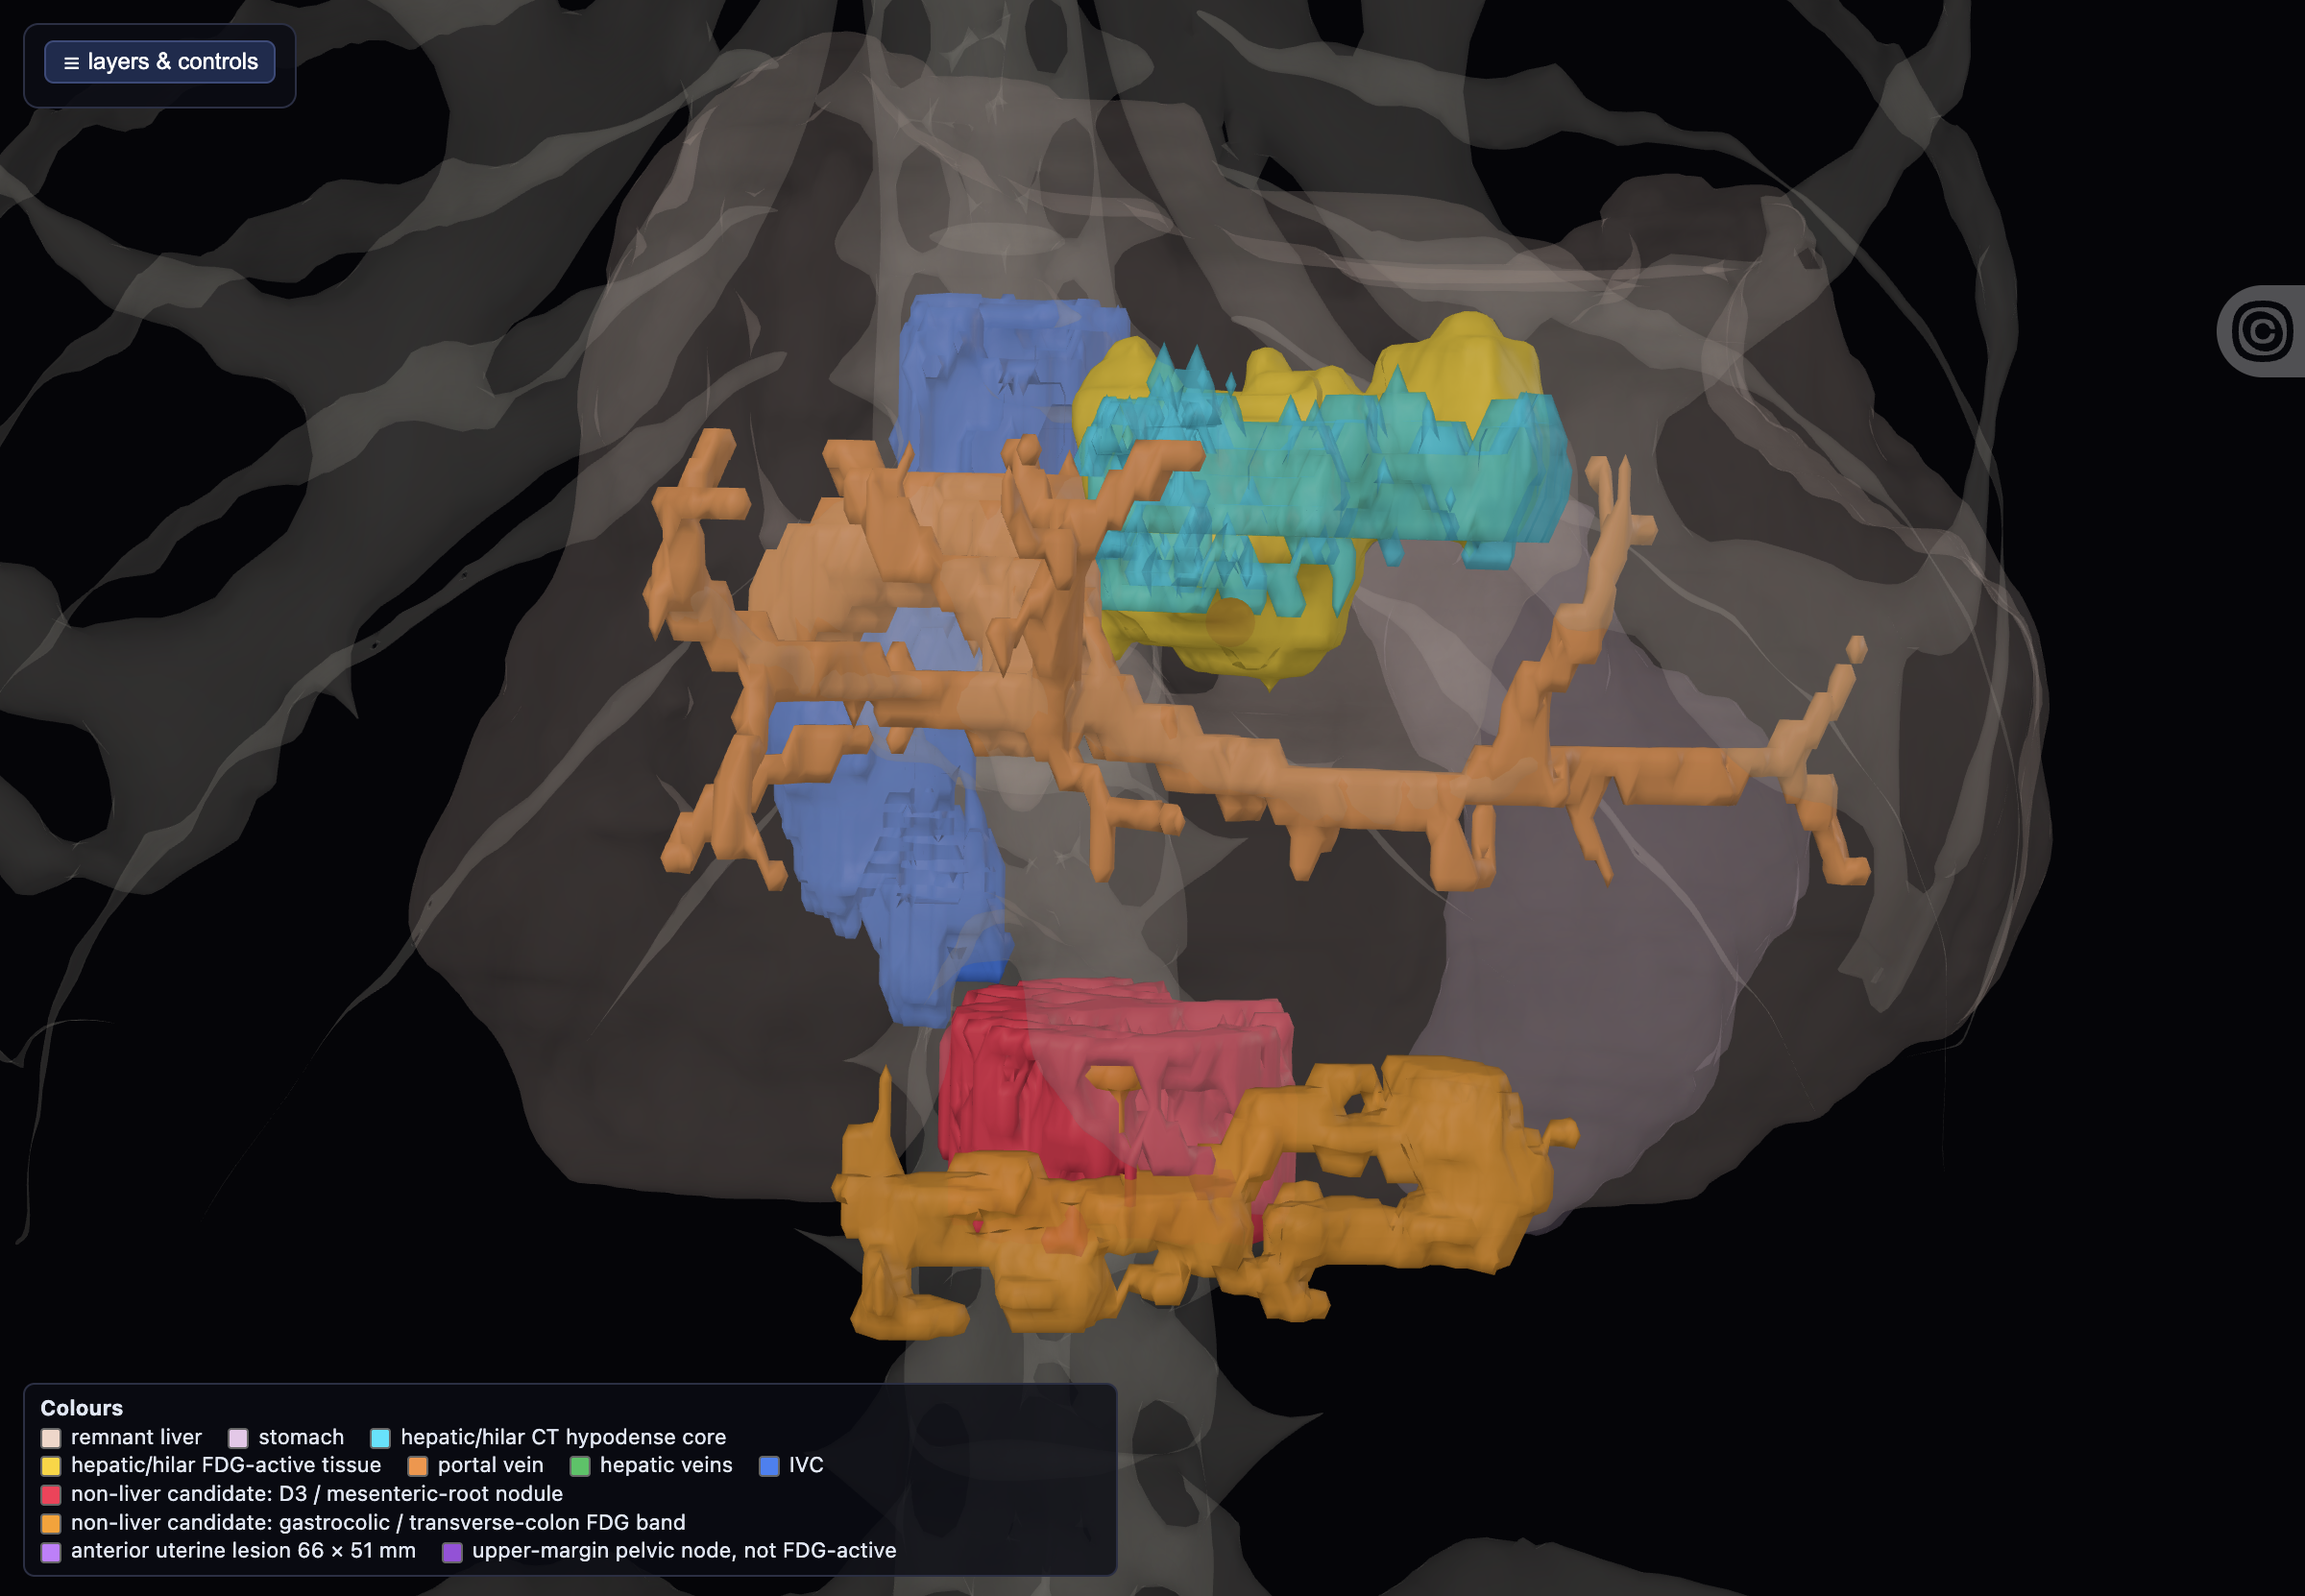
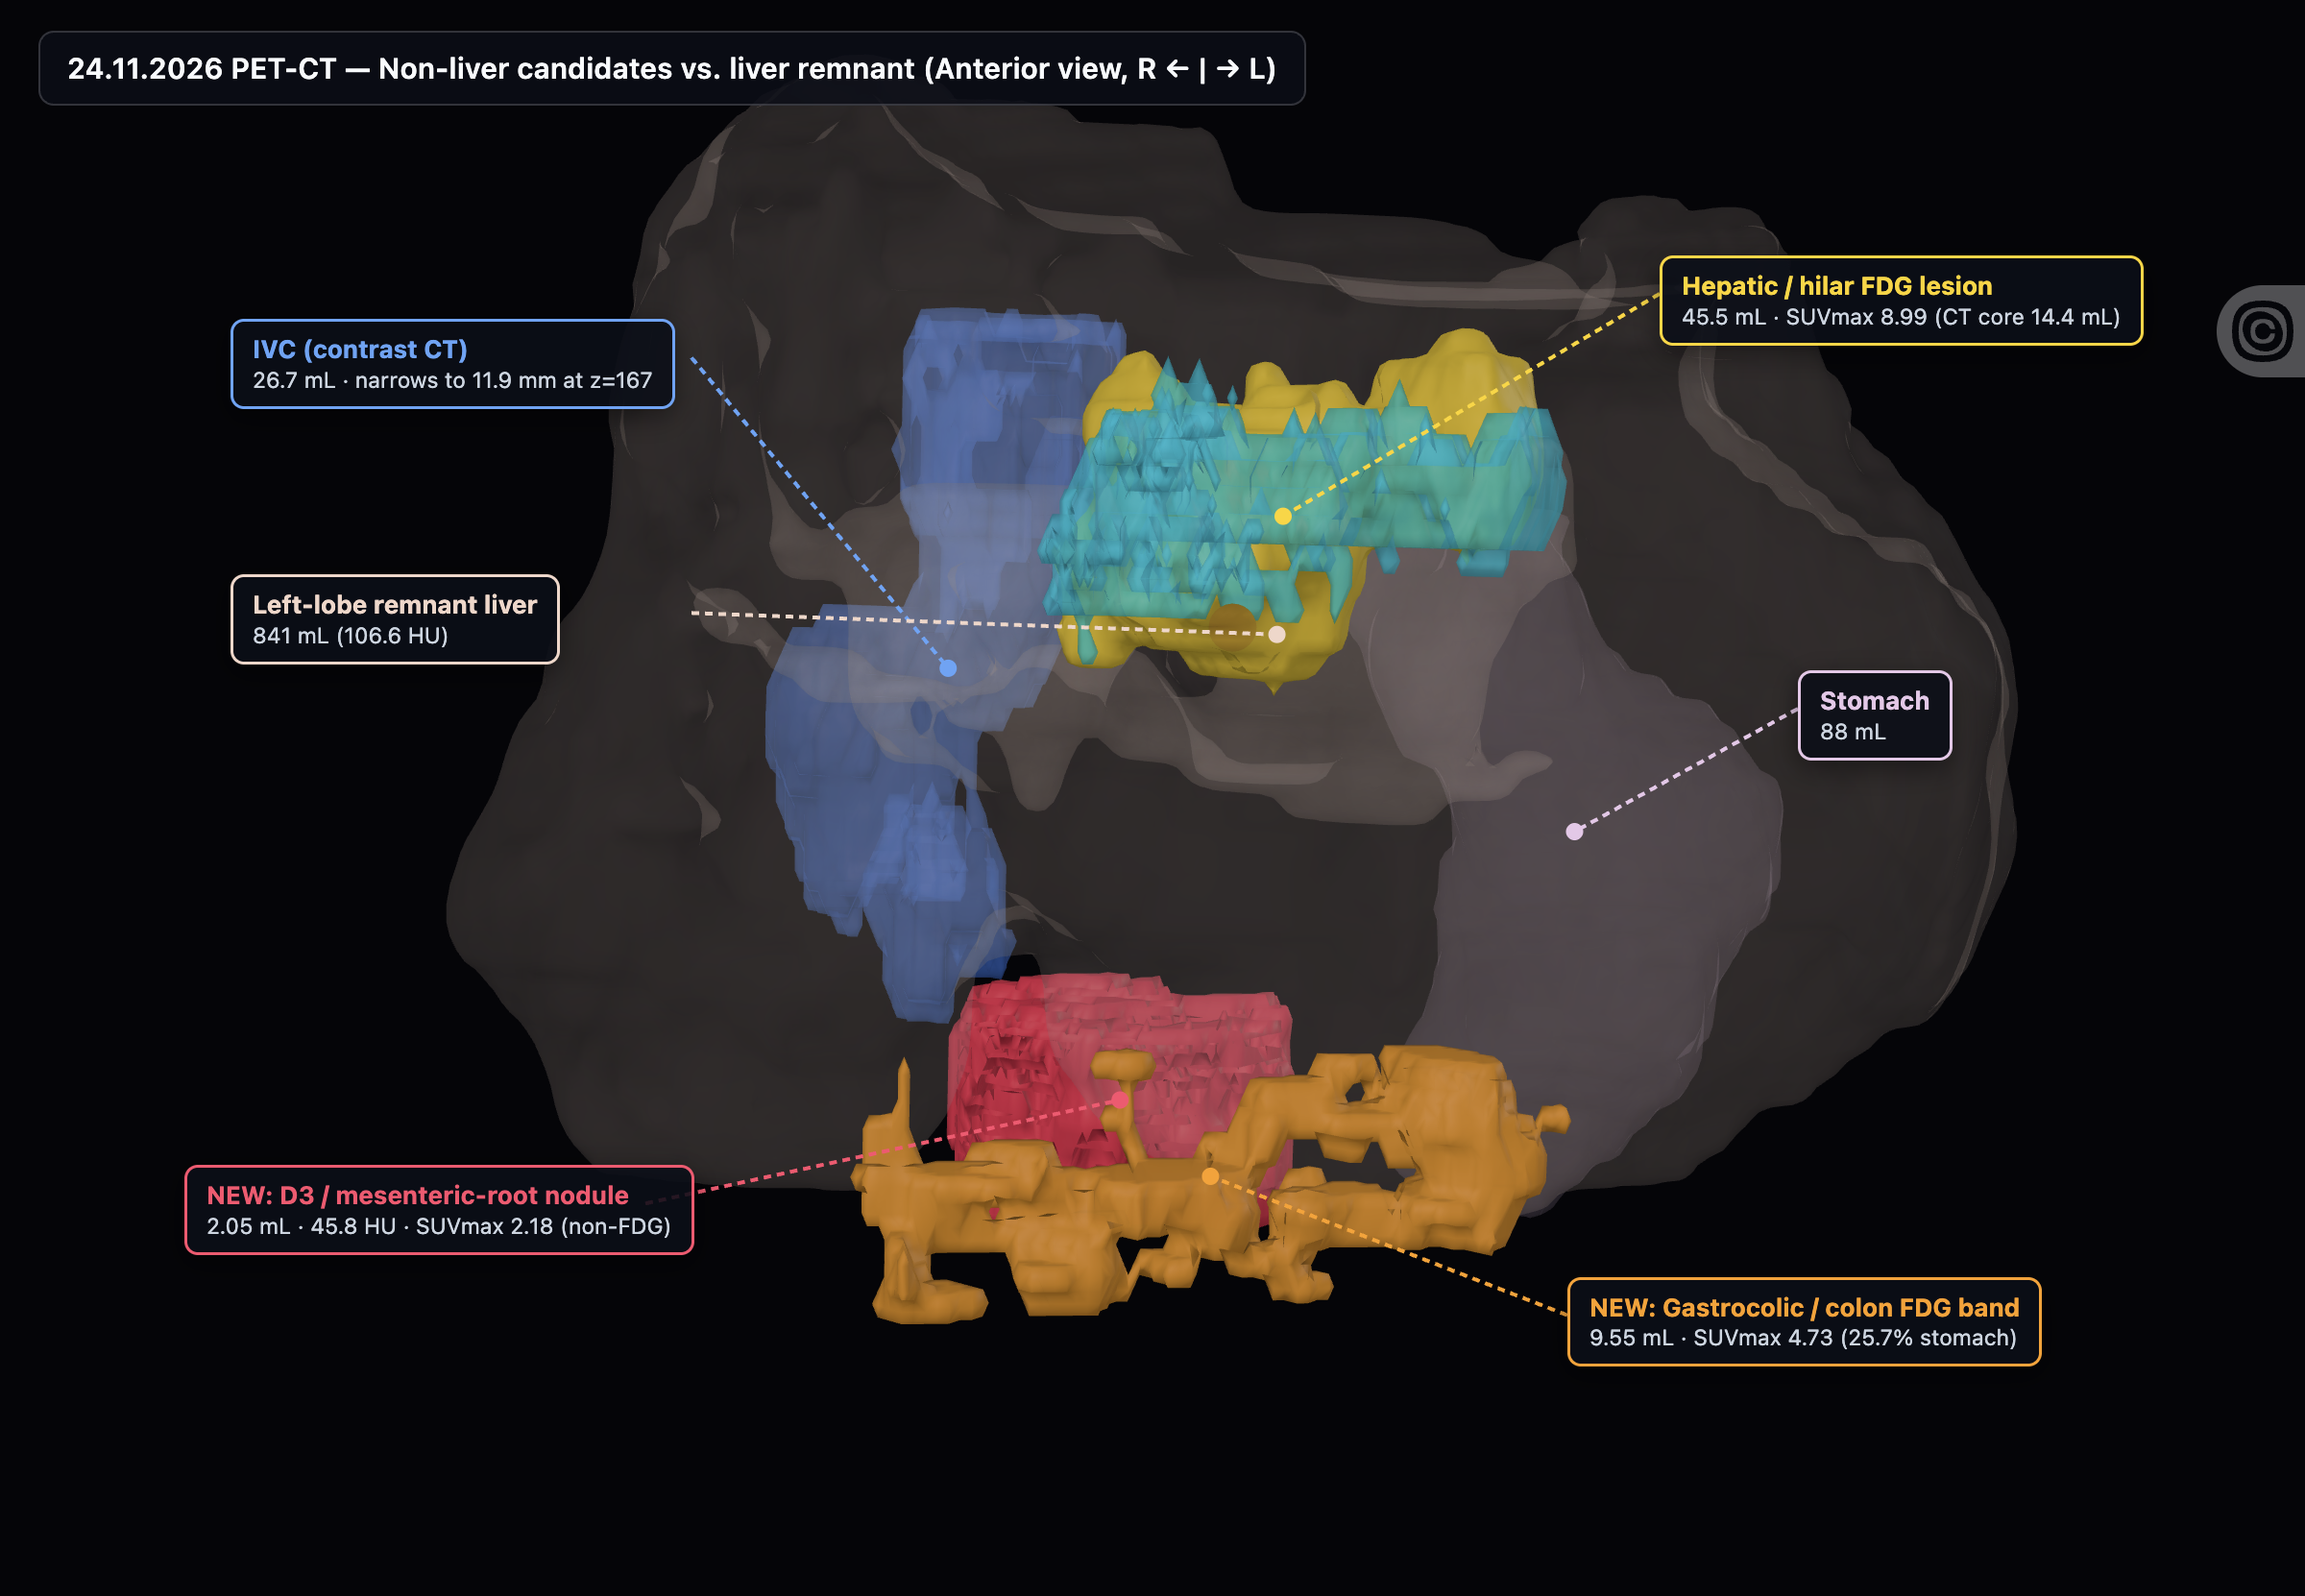
Replace non-liver 3D images with clean, labeled, uncluttered views in #imaging-nov

diff --git a/index.html b/index.html
@@ -803,7 +803,7 @@ draw();
 </table>
 <figure><img src="img/petct_2026-11/nov2026_contrast_s30.png?v=20261124" alt="24.11.2026 S30 portal-venous contrast CT and FDG PET"><figcaption>Figure N0. Converged <code>S30</code> portal-venous IV contrast CT + <code>S40</code> FDG PET (z=144..175): cyan = liver envelope, magenta = CT hypodense core (14.44 cm³, 65.6 HU), yellow = FDG PERCIST (45.54 cm³), orange = patent portal vein (167.6 HU), blue = continuous IVC (11.9 mm at z=167), green = Sato-Hessian hepatic veins (136.9 HU).</figcaption></figure>
 <figure><img src="img/petct_2026-11/nov2026_3d_views.png?v=20261124" alt="24.11.2026 3D liver remnant and hilar FDG reconstruction"><figcaption>Figure N1. Converged 3D reconstruction (24.11.2026, Anterior [R ← | → L] and Left Anterior Oblique): remnant liver (841.2 cm³), contiguous hepatic/hilar FDG lesion (40.7 cm³, SUVmax 8.99), portal vein, IVC (z ≤ 172, below cavoatrial junction), and stomach.</figcaption></figure>
-<figure><img src="img/petct_2026-11/nov2026_nonliver_3d_anterior.png?v=20261124" alt="24.11.2026 3D anterior view of new non-liver candidates"><img src="img/petct_2026-11/nov2026_nonliver_3d_oblique.png?v=20261124" alt="24.11.2026 3D left anterior oblique view of new non-liver candidates"><figcaption>Figure N1b. Static 3D views of the <b>new</b> non-liver candidates (top: Anterior; bottom: Left Anterior Oblique): <b>red</b> = D3 / mesenteric-root nodule (2.05 cm³, 45.8 HU, SUVmax 2.18, z=145.6, 3.1 mm anterior to aorta — likely collapsed D3 vs non-FDG node); <b>amber</b> = gastrocolic / transverse-colon FDG band (9.55 cm³, SUVmax 4.73, z=143.9, 25.7% stomach overlap). Shown with ghosted liver remnant &amp; stomach, IVC (blue), portal vein (tan), and hepatic/hilar lesion (cyan CT core / yellow FDG).</figcaption></figure>
+<figure><img src="img/petct_2026-11/nov2026_nonliver_3d_anterior.png?v=202611241918" alt="24.11.2026 3D anterior view of new non-liver candidates"><img src="img/petct_2026-11/nov2026_nonliver_3d_oblique.png?v=202611241918" alt="24.11.2026 3D left anterior oblique view of new non-liver candidates"><figcaption>Figure N1b. Clean 3D views of the <b>new</b> non-liver candidates (top: Anterior; bottom: Left Anterior Oblique): <b>red</b> = D3 / mesenteric-root nodule (2.05 cm³, 45.8 HU, SUVmax 2.18, z=145.6, 3.1 mm anterior to aorta — likely collapsed D3 vs non-FDG node); <b>amber</b> = gastrocolic / transverse-colon FDG band (9.55 cm³, SUVmax 4.73, z=143.9, 25.7% stomach overlap). Shown with ghosted liver remnant &amp; stomach, IVC (blue), and hepatic/hilar lesion (cyan CT core / yellow FDG).</figcaption></figure>
 <figure><img src="img/petct_2026-11/nov2026_liver_slices.png?v=20261124" alt="24.11.2026 axial CT and fused PET-CT liver slices"><figcaption>Figure N2. Axial CT and fused PET-CT across the remnant liver (z=142..182): cyan = refined remnant liver, yellow = PERCIST FDG focus (SUVmax 8.99), magenta = excluded heart, green = deformed Sep 2026 L1 reference.</figcaption></figure>
 <details><summary>24.11.2026 extra-hepatic/desmoid survey, pelvis axial/sagittal/coronal check, and PET MIP</summary>
 <figure><img src="img/petct_2026-11/nov2026_desmoid_survey.png?v=20261124" loading="lazy" alt="24.11.2026 extra-hepatic FDG and peritoneal CT survey"><figcaption>Figure N3. Torso-only extra-hepatic FDG &amp; intraperitoneal desmoid survey (arms &amp; retroperitoneal muscles excluded): shows physiologic/indeterminate GI bands (z=80, 100, 144, 153), the 2.72 cm³ sub-PERCIST halo 1.4 mm from the hilar lesion (z=165), and the lone 2.05 cm³ non-FDG-avid mesenteric-root nodule (z=146, SUVmax 2.18).</figcaption></figure>
